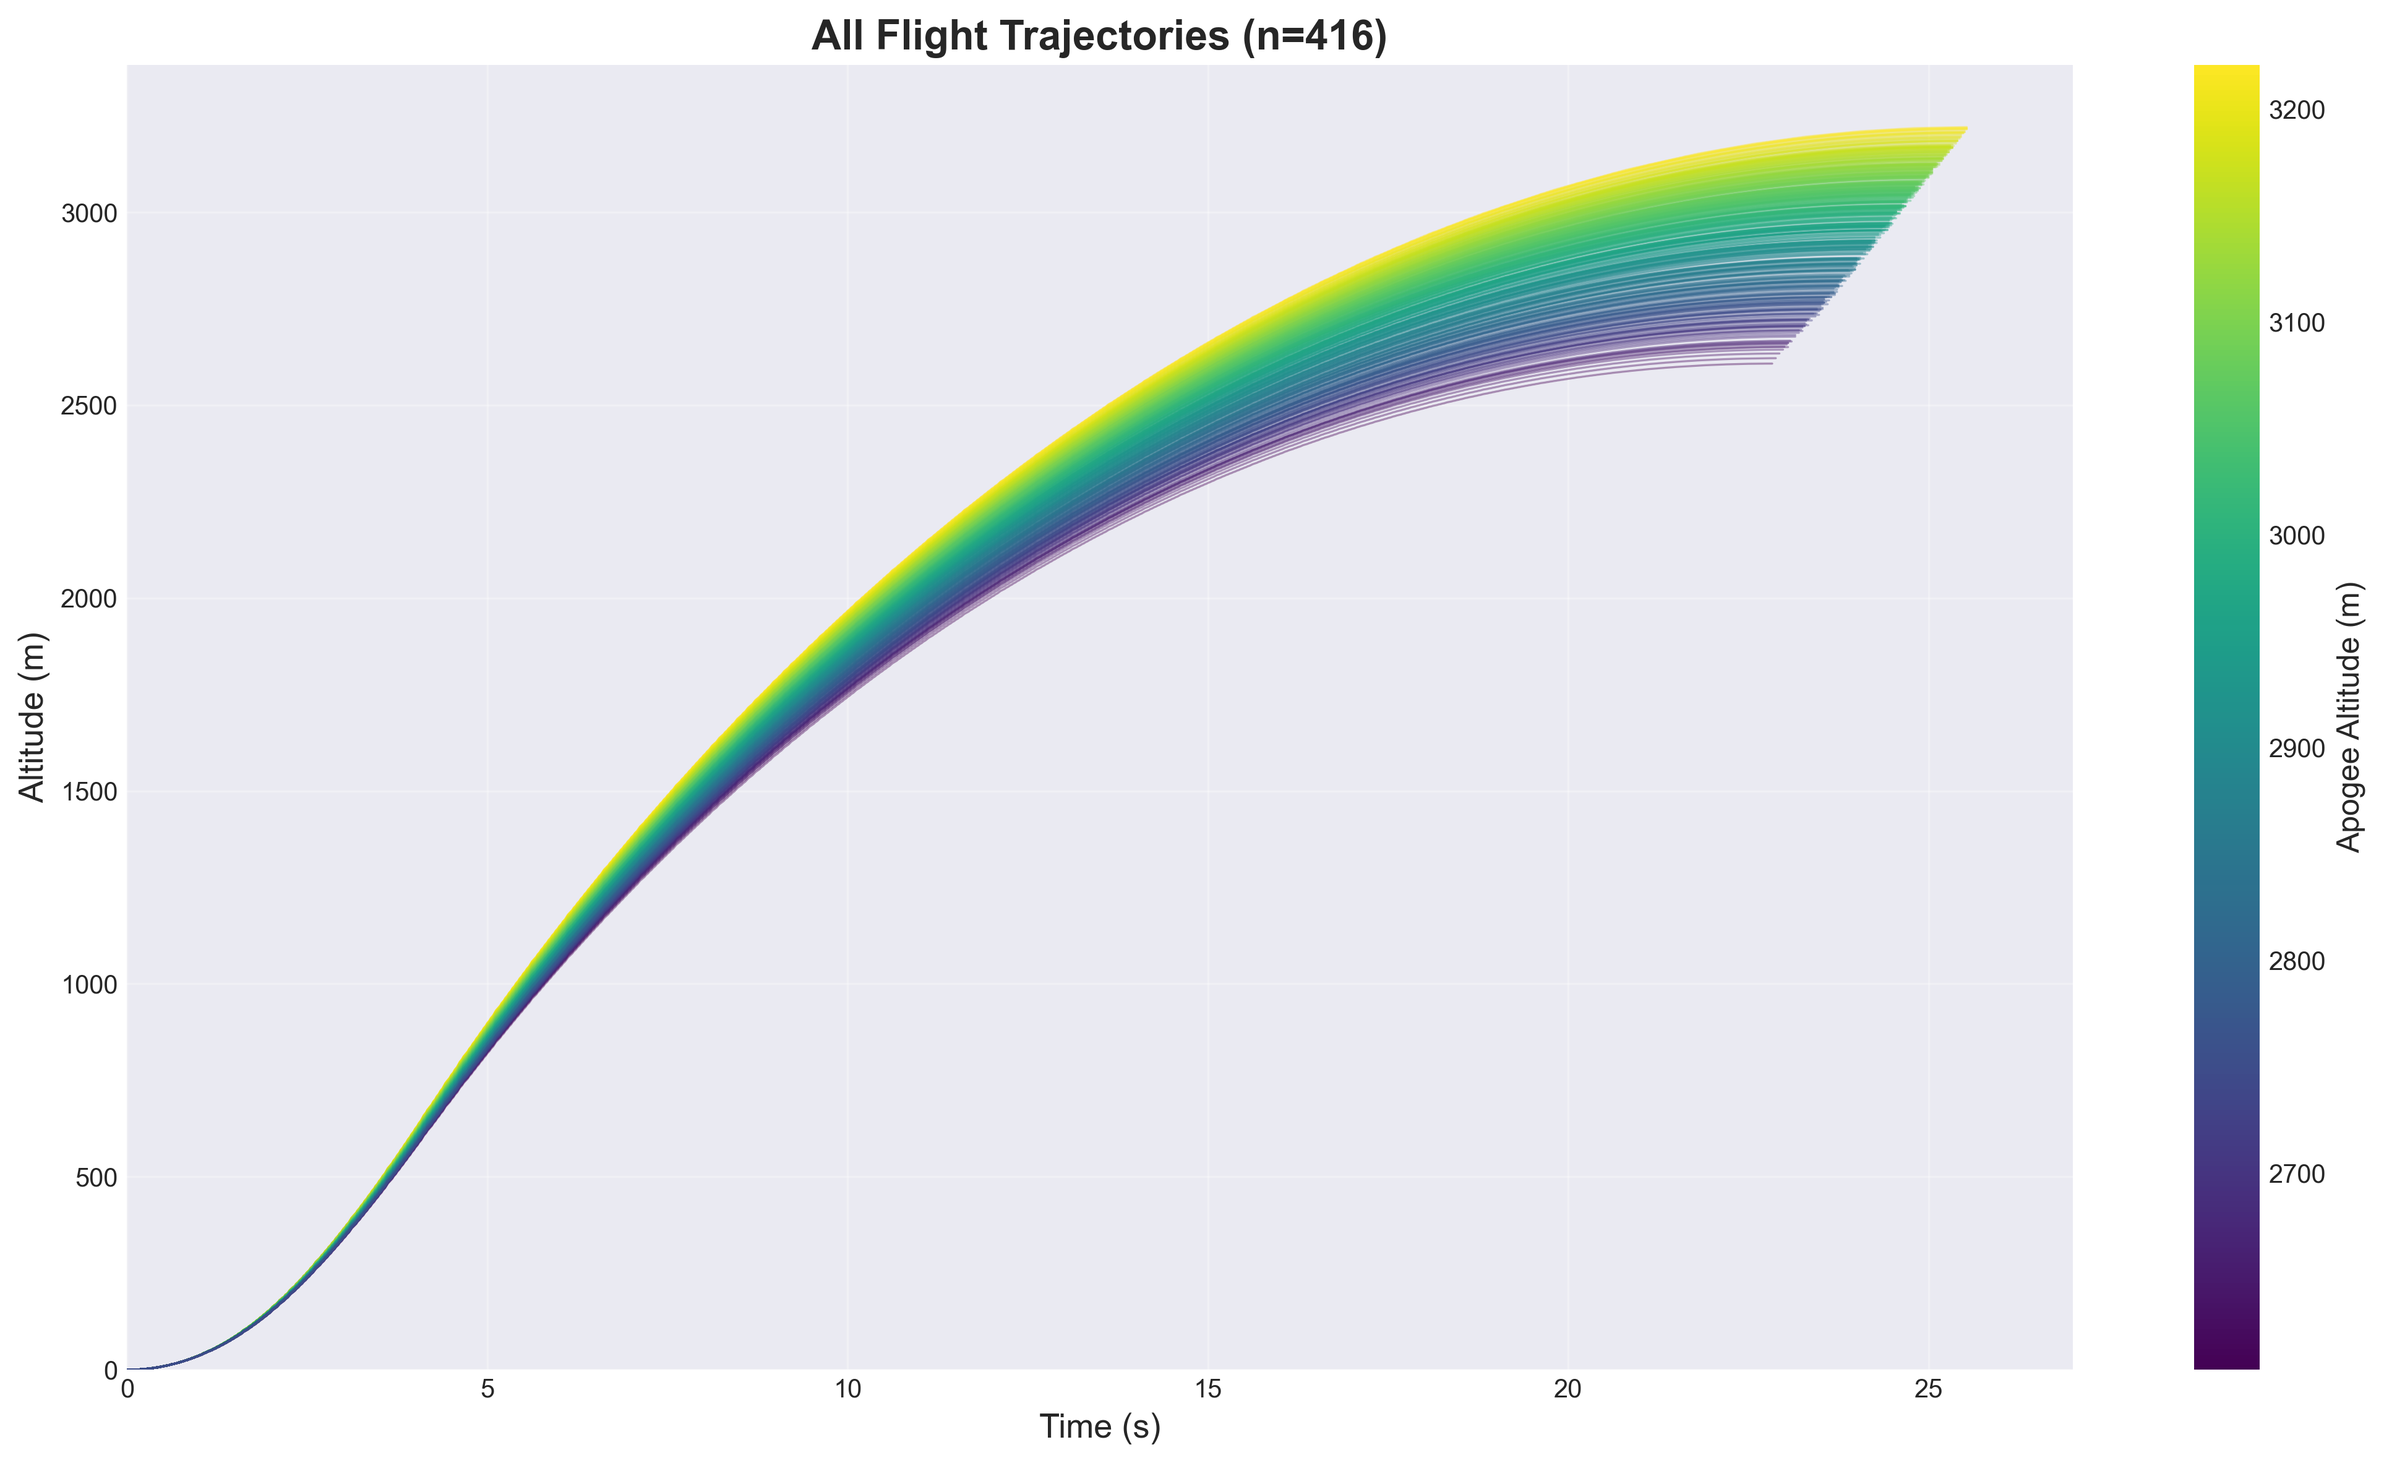
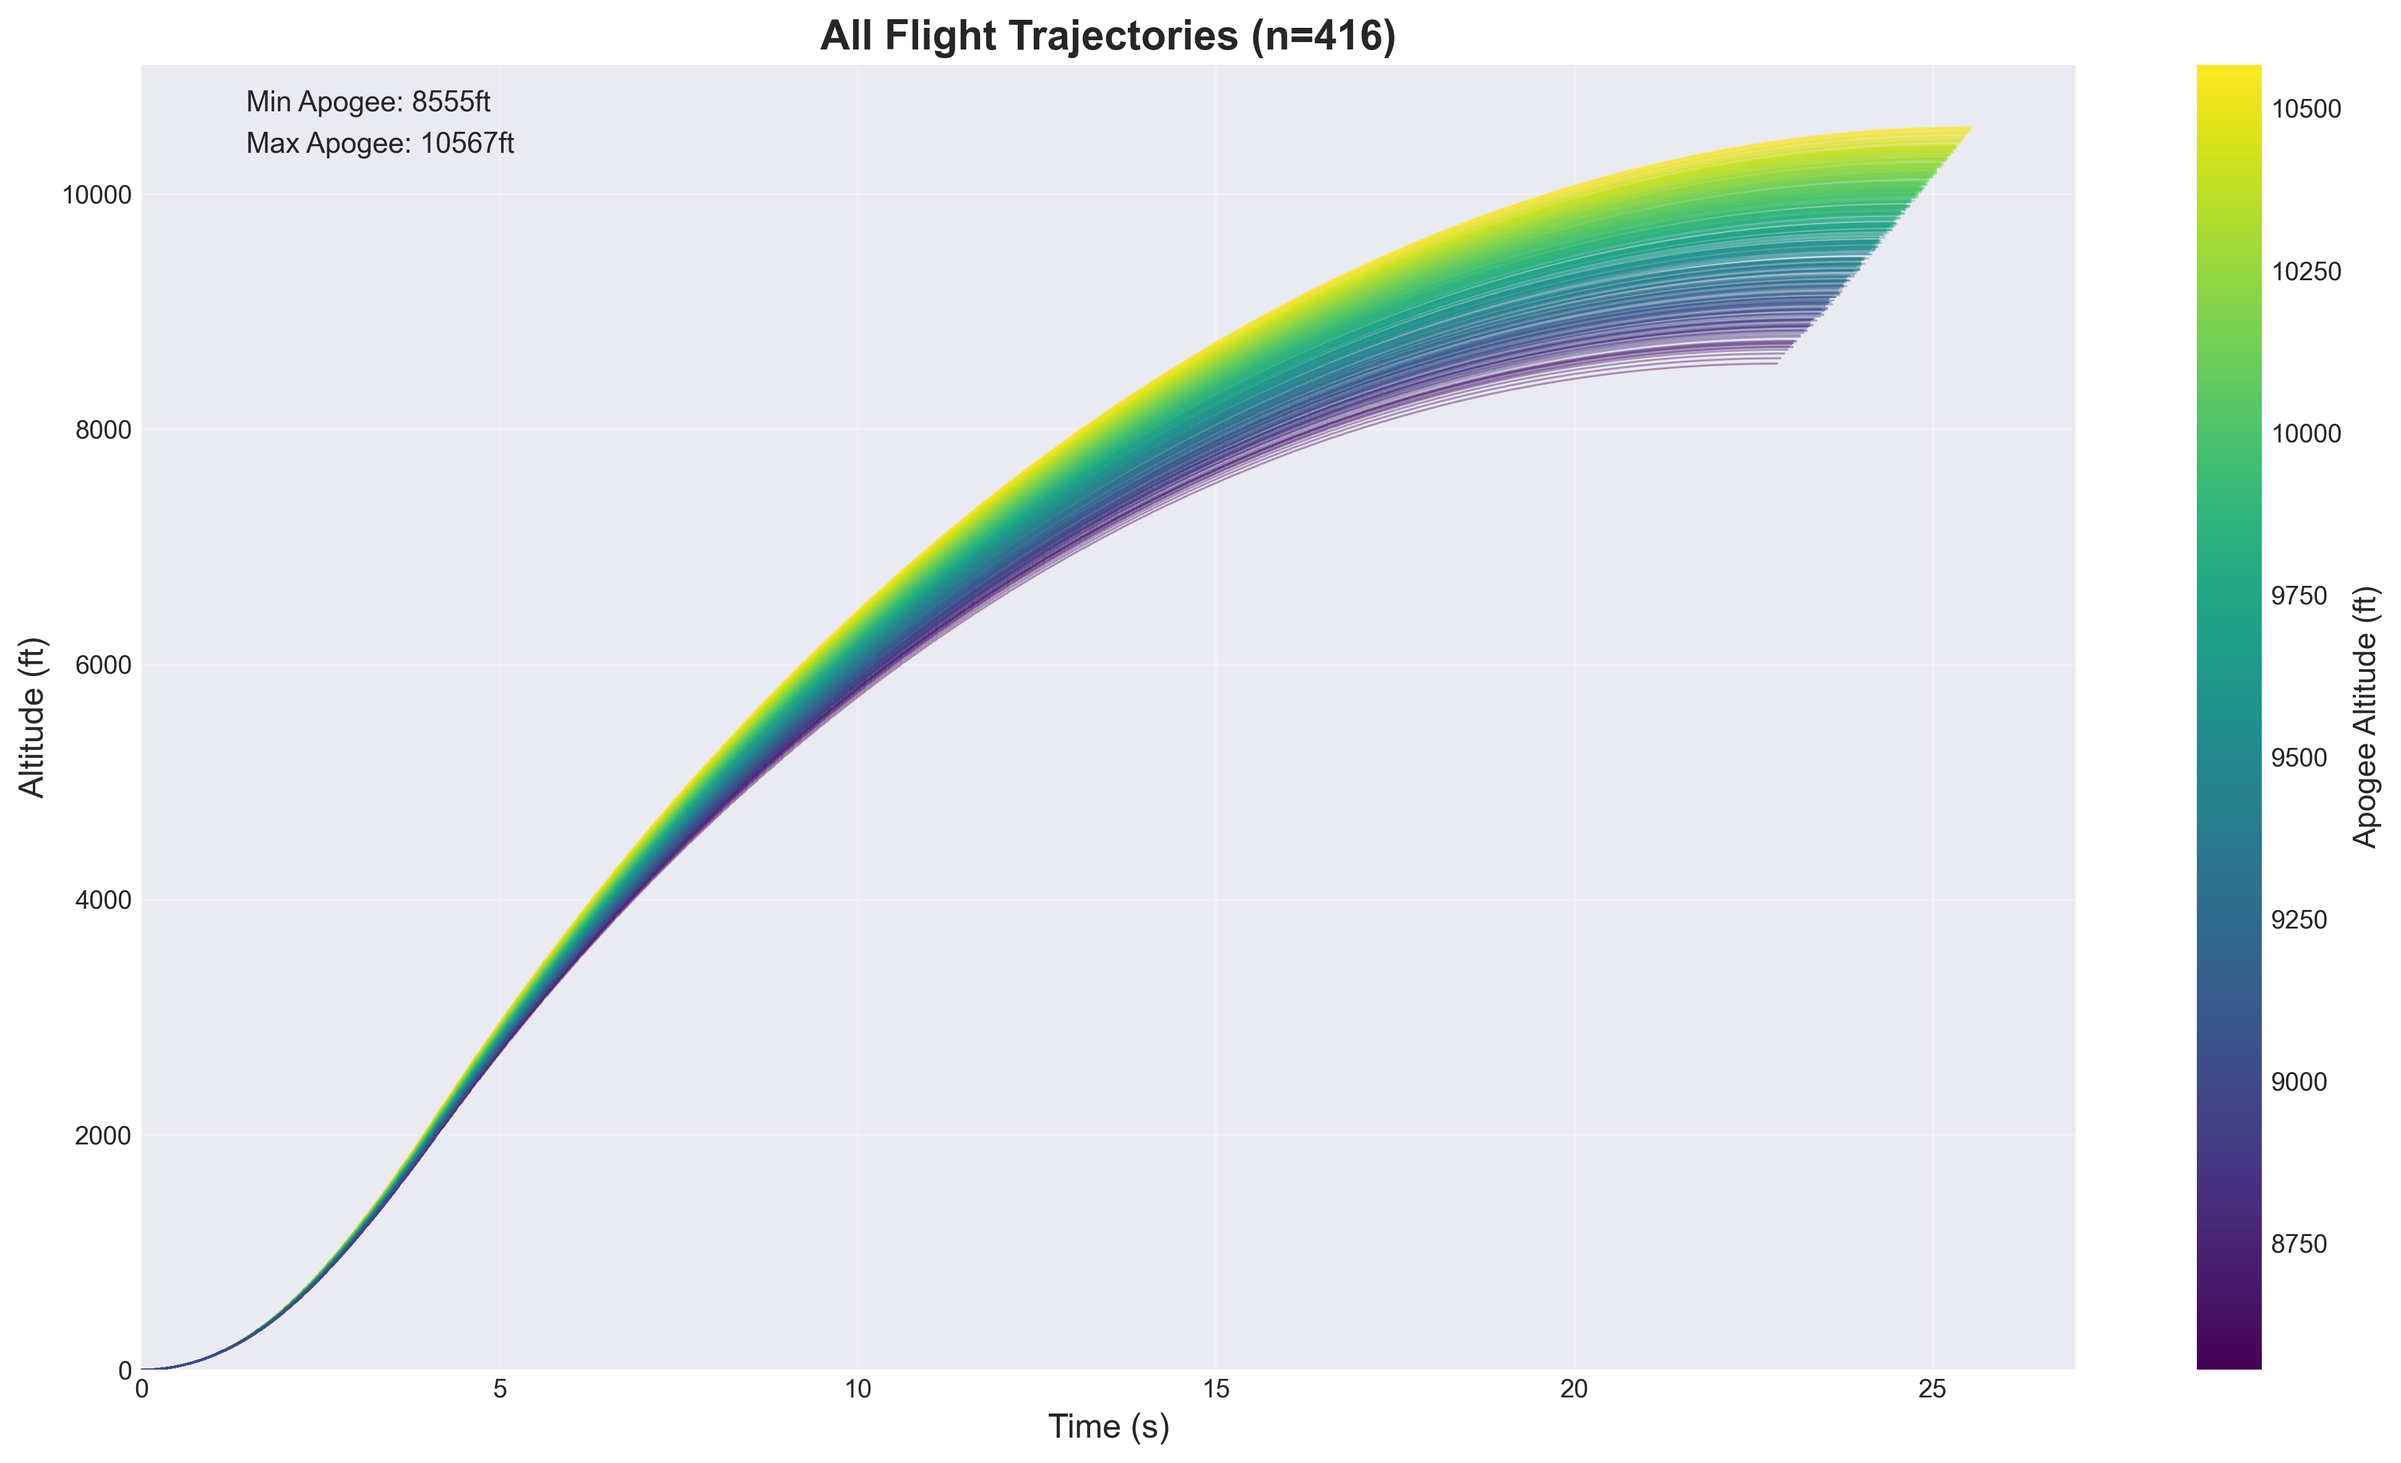
added legends and switched to imperial

diff --git a/scripts/visualization_suite.py b/scripts/visualization_suite.py
@@ -41,7 +41,13 @@ OUTPUT_DIR.mkdir(exist_ok=True)
 TIMESTEP_INTERVAL = 0.025
 WINDOW_SEC = 2.5
 STRIDE_SEC = 0.25
+TIMESTEP_INTERVAL = 0.025
+WINDOW_SEC = 2.5
+STRIDE_SEC = 0.25
 TOTAL_TIME_SEC = 25.0
+
+# === Unit Conversion ===
+M_TO_FT = 3.28084
 
 WINDOW_SIZE = int(WINDOW_SEC / TIMESTEP_INTERVAL)
 STRIDE = int(STRIDE_SEC / TIMESTEP_INTERVAL)
@@ -157,14 +163,14 @@ def extract_trajectory_columns(df: pd.DataFrame) -> Dict[str, np.ndarray]:
     
     result = {
         'timesteps': timesteps,
-        'altitude': df[[c for c in cols if c.startswith("Altitude (m) @")]].values,
-        'vertical_velocity': df[[c for c in cols if c.startswith("Vertical velocity (m/s) @")]].values,
-        'horizontal_velocity': df[[c for c in cols if c.startswith("Horizontal velocity (m/s) @")]].values,
-        'total_velocity': df[[c for c in cols if c.startswith("Total velocity (m/s) @")]].values,
+        'altitude': df[[c for c in cols if c.startswith("Altitude (m) @")]].values * M_TO_FT,
+        'vertical_velocity': df[[c for c in cols if c.startswith("Vertical velocity (m/s) @")]].values * M_TO_FT,
+        'horizontal_velocity': df[[c for c in cols if c.startswith("Horizontal velocity (m/s) @")]].values * M_TO_FT,
+        'total_velocity': df[[c for c in cols if c.startswith("Total velocity (m/s) @")]].values * M_TO_FT,
         'mach': df[[c for c in cols if c.startswith("Mach number @")]].values,
-        'apogee': df["Apogee altitude (m)"].values,
+        'apogee': df["Apogee altitude (m)"].values * M_TO_FT,
         'apogee_time': df["Apogee time (s)"].values,
-        'wind_speed': df["Wind Speed (m/s)"].values,
+        'wind_speed': df["Wind Speed (m/s)"].values * M_TO_FT,
         'temperature': df["Temperature (K)"].values,
         'launch_angle': df["Launch Angle (deg)"].values,
     }
@@ -187,18 +193,25 @@ def compute_all_model_metrics(models: Dict, X: np.ndarray, y: np.ndarray) -> Dic
     for name in ['MLP', 'Random Forest', 'Linear Regression']:
         y_pred = predict_with_model(models[name], name, X_scaled, target_scaler)
         
-        rmse = np.sqrt(mean_squared_error(y, y_pred))
-        mae = mean_absolute_error(y, y_pred)
+        # Calculate metrics in meters first (standard) then convert for display
+        rmse_m = np.sqrt(mean_squared_error(y, y_pred))
+        mae_m = mean_absolute_error(y, y_pred)
         r2 = r2_score(y, y_pred)
         
+        # Convert to feet
+        rmse_ft = rmse_m * M_TO_FT
+        mae_ft = mae_m * M_TO_FT
+        y_pred_ft = y_pred * M_TO_FT
+        errors_ft = (y_pred - y) * M_TO_FT
+        
         metrics[name] = {
-            'rmse': rmse,
-            'mae': mae,
+            'rmse': rmse_ft,
+            'mae': mae_ft,
             'r2': r2,
-            'predictions': y_pred,
-            'errors': y_pred - y
+            'predictions': y_pred_ft,
+            'errors': errors_ft
         }
-        print(f"  {name}: RMSE={rmse:.2f}m, MAE={mae:.2f}m, R²={r2:.4f}")
+        print(f"  {name}: RMSE={rmse_ft:.2f}ft, MAE={mae_ft:.2f}ft, R²={r2:.4f}")
     
     return metrics
 
@@ -216,21 +229,21 @@ def plot_model_comparison_bar(metrics: Dict):
     
     # RMSE bars
     bars1 = axes[0].bar(model_names, rmse_values, color=colors, edgecolor='black', linewidth=1.2)
-    axes[0].set_ylabel('RMSE (meters)', fontsize=12)
+    axes[0].set_ylabel('RMSE (feet)', fontsize=12)
     axes[0].set_title('Root Mean Square Error by Model', fontsize=14, fontweight='bold')
     axes[0].set_ylim(0, max(rmse_values) * 1.15)
     for bar, val in zip(bars1, rmse_values):
         axes[0].text(bar.get_x() + bar.get_width()/2, bar.get_height() + 1, 
-                    f'{val:.1f}m', ha='center', va='bottom', fontsize=11, fontweight='bold')
+                    f'{val:.1f}ft', ha='center', va='bottom', fontsize=11, fontweight='bold')
     
     # MAE bars
     bars2 = axes[1].bar(model_names, mae_values, color=colors, edgecolor='black', linewidth=1.2)
-    axes[1].set_ylabel('MAE (meters)', fontsize=12)
+    axes[1].set_ylabel('MAE (feet)', fontsize=12)
     axes[1].set_title('Mean Absolute Error by Model', fontsize=14, fontweight='bold')
     axes[1].set_ylim(0, max(mae_values) * 1.15)
     for bar, val in zip(bars2, mae_values):
         axes[1].text(bar.get_x() + bar.get_width()/2, bar.get_height() + 1, 
-                    f'{val:.1f}m', ha='center', va='bottom', fontsize=11, fontweight='bold')
+                    f'{val:.1f}ft', ha='center', va='bottom', fontsize=11, fontweight='bold')
     
     plt.tight_layout()
     save_path = OUTPUT_DIR / "model_comparison_bar.png"
@@ -255,8 +268,8 @@ def plot_pred_vs_actual(metrics: Dict, y_true: np.ndarray):
         lims = [min(y_true.min(), y_pred.min()), max(y_true.max(), y_pred.max())]
         ax.plot(lims, lims, 'k--', linewidth=2, label='Perfect Prediction')
         
-        ax.set_xlabel('Actual Apogee (m)', fontsize=12)
-        ax.set_ylabel('Predicted Apogee (m)', fontsize=12)
+        ax.set_xlabel('Actual Apogee (ft)', fontsize=12)
+        ax.set_ylabel('Predicted Apogee (ft)', fontsize=12)
         ax.set_title(f'{name}\nR² = {data["r2"]:.4f}', fontsize=14, fontweight='bold')
         ax.legend(loc='lower right')
         ax.set_aspect('equal', adjustable='box')
@@ -298,8 +311,11 @@ def plot_error_vs_time(models: Dict, test_df: pd.DataFrame, y_true: np.ndarray):
         for flight_idx in range(num_flights):
             start = flight_idx * SAMPLES_PER_FLIGHT
             end = start + SAMPLES_PER_FLIGHT
-            true_apogee = y_true[start][0]
-            preds_i = y_pred[start:end].flatten()[time_mask]
+            
+            # Convert to feet for error calculation
+            true_apogee = y_true[start][0] * M_TO_FT
+            preds_i = y_pred[start:end].flatten()[time_mask] * M_TO_FT
+            
             abs_errors.append(np.abs(preds_i - true_apogee))
         
         abs_errors = np.vstack(abs_errors)
@@ -314,7 +330,7 @@ def plot_error_vs_time(models: Dict, test_df: pd.DataFrame, y_true: np.ndarray):
                         color=color, alpha=0.15)
     
     ax.set_xlabel('Time into Flight (s)', fontsize=13)
-    ax.set_ylabel('Mean Absolute Error (m)', fontsize=13)
+    ax.set_ylabel('Mean Absolute Error (ft)', fontsize=13)
     ax.set_title('Prediction Error vs Flight Time - Model Comparison', fontsize=16, fontweight='bold')
     ax.legend(fontsize=12, loc='upper right')
     ax.grid(True, alpha=0.3)
@@ -356,7 +372,7 @@ def plot_error_distributions(metrics: Dict):
     ax.axhline(0, color='black', linestyle='--', linewidth=1, alpha=0.7)
     ax.set_xticks([1, 2, 3])
     ax.set_xticklabels(labels, fontsize=12)
-    ax.set_ylabel('Prediction Error (m)', fontsize=13)
+    ax.set_ylabel('Prediction Error (ft)', fontsize=13)
     ax.set_title('Error Distribution by Model', fontsize=16, fontweight='bold')
     ax.grid(True, alpha=0.3, axis='y')
     
@@ -431,11 +447,21 @@ def plot_2d_all_flights(traj_data: Dict):
     # Add colorbar
     sm = plt.cm.ScalarMappable(cmap=cmap, norm=norm)
     sm.set_array([])
+    # Add colorbar
+    sm = plt.cm.ScalarMappable(cmap=cmap, norm=norm)
+    sm.set_array([])
     cbar = plt.colorbar(sm, ax=ax)
-    cbar.set_label('Apogee Altitude (m)', fontsize=12)
+    cbar.set_label('Apogee Altitude (ft)', fontsize=12)
+    
+    # Add legend with min/max altitude
+    min_apogee = apogees.min()
+    max_apogee = apogees.max()
+    ax.plot([], [], ' ', label=f'Min Apogee: {min_apogee:.0f}ft')
+    ax.plot([], [], ' ', label=f'Max Apogee: {max_apogee:.0f}ft')
+    ax.legend(loc='upper left', fontsize=11, framealpha=0.9)
     
     ax.set_xlabel('Time (s)', fontsize=13)
-    ax.set_ylabel('Altitude (m)', fontsize=13)
+    ax.set_ylabel('Altitude (ft)', fontsize=13)
     ax.set_title(f'All Flight Trajectories (n={num_flights})', fontsize=16, fontweight='bold')
     ax.grid(True, alpha=0.3)
     ax.set_xlim(0, 27)
@@ -475,12 +501,17 @@ def plot_2d_average_flight(traj_data: Dict):
     # Mark mean apogee
     apogee_idx = np.argmax(mean_alt)
     ax.scatter([timesteps[apogee_idx]], [mean_alt[apogee_idx]], 
-               s=150, c='red', zorder=5, marker='*', label=f'Mean Apogee: {mean_alt[apogee_idx]:.0f}m')
+               s=150, c='red', zorder=5, marker='*', label=f'Mean Apogee: {mean_alt[apogee_idx]:.0f}ft')
+    
+    # Add min/max altitude to legend
+    apogees = traj_data['apogee']
+    ax.plot([], [], ' ', label=f'Min Apogee: {apogees.min():.0f}ft')
+    ax.plot([], [], ' ', label=f'Max Apogee: {apogees.max():.0f}ft')
     
     ax.set_xlabel('Time (s)', fontsize=13)
-    ax.set_ylabel('Altitude (m)', fontsize=13)
+    ax.set_ylabel('Altitude (ft)', fontsize=13)
     ax.set_title('Average Flight Trajectory with Confidence Bands', fontsize=16, fontweight='bold')
-    ax.legend(loc='upper right', fontsize=11)
+    ax.legend(loc='upper left', fontsize=11)
     ax.grid(True, alpha=0.3)
     ax.set_xlim(0, 27)
     ax.set_ylim(0, None)
@@ -549,16 +580,24 @@ def plot_3d_all_flights(traj_data: Dict):
         color = cmap(norm(apogees[i]))
         ax.plot(X[i, mask], Y[i, mask], Z[i, mask], alpha=0.5, linewidth=0.8, color=color)
     
-    ax.set_xlabel('X Distance (m)', fontsize=11)
-    ax.set_ylabel('Y Distance (m)', fontsize=11)
-    ax.set_zlabel('Altitude (m)', fontsize=11)
     ax.set_title(f'3D Flight Trajectories (n={num_flights})', fontsize=16, fontweight='bold')
     
     # Add colorbar
     sm = plt.cm.ScalarMappable(cmap=cmap, norm=norm)
     sm.set_array([])
     cbar = plt.colorbar(sm, ax=ax, shrink=0.6, pad=0.1)
-    cbar.set_label('Apogee Altitude (m)', fontsize=11)
+    cbar.set_label('Apogee Altitude (ft)', fontsize=11)
+    
+    # Add legend with min/max altitude
+    min_apogee = apogees.min()
+    max_apogee = apogees.max()
+    ax.plot([], [], [], ' ', label=f'Min Apogee: {min_apogee:.0f}ft')
+    ax.plot([], [], [], ' ', label=f'Max Apogee: {max_apogee:.0f}ft')
+    ax.legend(loc='upper left', fontsize=10, framealpha=0.9)
+    
+    ax.set_xlabel('X Distance (ft)', fontsize=11)
+    ax.set_ylabel('Y Distance (ft)', fontsize=11)
+    ax.set_zlabel('Altitude (ft)', fontsize=11)
     
     ax.view_init(elev=25, azim=45)
     
@@ -610,11 +649,16 @@ def plot_3d_average_flight(traj_data: Dict):
     apogee_idx = np.argmax(mean_Z)
     ax.scatter([mean_X[apogee_idx]], [mean_Y[apogee_idx]], [mean_Z[apogee_idx]], 
                s=200, c='gold', marker='*', edgecolors='black', linewidth=1,
-               label=f'Mean Apogee: {mean_Z[apogee_idx]:.0f}m', zorder=10)
+               label=f'Mean Apogee: {mean_Z[apogee_idx]:.0f}ft', zorder=10)
     
-    ax.set_xlabel('X Distance (m)', fontsize=11)
-    ax.set_ylabel('Y Distance (m)', fontsize=11)
-    ax.set_zlabel('Altitude (m)', fontsize=11)
+    # Add min/max altitude to legend
+    apogees = traj_data['apogee']
+    ax.plot([], [], [], ' ', label=f'Min Apogee: {apogees.min():.0f}ft')
+    ax.plot([], [], [], ' ', label=f'Max Apogee: {apogees.max():.0f}ft')
+    
+    ax.set_xlabel('X Distance (ft)', fontsize=11)
+    ax.set_ylabel('Y Distance (ft)', fontsize=11)
+    ax.set_zlabel('Altitude (ft)', fontsize=11)
     ax.set_title('Average 3D Flight Trajectory', fontsize=16, fontweight='bold')
     ax.legend(loc='upper left', fontsize=11)
     
@@ -641,11 +685,11 @@ def plot_apogee_distribution(traj_data: Dict):
     
     ax.hist(apogees, bins=30, color='#9b59b6', edgecolor='black', alpha=0.7)
     ax.axvline(np.mean(apogees), color='red', linestyle='--', linewidth=2, 
-               label=f'Mean: {np.mean(apogees):.0f}m')
+               label=f'Mean: {np.mean(apogees):.0f}ft')
     ax.axvline(np.median(apogees), color='orange', linestyle='--', linewidth=2, 
-               label=f'Median: {np.median(apogees):.0f}m')
+               label=f'Median: {np.median(apogees):.0f}ft')
     
-    ax.set_xlabel('Apogee Altitude (m)', fontsize=13)
+    ax.set_xlabel('Apogee Altitude (ft)', fontsize=13)
     ax.set_ylabel('Number of Flights', fontsize=13)
     ax.set_title('Distribution of Apogee Altitudes', fontsize=16, fontweight='bold')
     ax.legend(fontsize=12)
@@ -674,7 +718,7 @@ def plot_velocity_profiles(traj_data: Dict):
     axes[0].fill_between(timesteps, mean_v - std_v, mean_v + std_v, color='#27ae60', alpha=0.2)
     axes[0].axhline(0, color='black', linestyle='--', linewidth=1)
     axes[0].set_xlabel('Time (s)', fontsize=12)
-    axes[0].set_ylabel('Velocity (m/s)', fontsize=12)
+    axes[0].set_ylabel('Velocity (ft/s)', fontsize=12)
     axes[0].set_title('Vertical Velocity', fontsize=14, fontweight='bold')
     axes[0].grid(True, alpha=0.3)
     
@@ -686,7 +730,7 @@ def plot_velocity_profiles(traj_data: Dict):
     axes[1].fill_between(timesteps, np.maximum(0, mean_h - std_h), mean_h + std_h, 
                          color='#e67e22', alpha=0.2)
     axes[1].set_xlabel('Time (s)', fontsize=12)
-    axes[1].set_ylabel('Velocity (m/s)', fontsize=12)
+    axes[1].set_ylabel('Velocity (ft/s)', fontsize=12)
     axes[1].set_title('Horizontal Velocity', fontsize=14, fontweight='bold')
     axes[1].grid(True, alpha=0.3)
     
@@ -698,7 +742,7 @@ def plot_velocity_profiles(traj_data: Dict):
     axes[2].fill_between(timesteps, np.maximum(0, mean_t - std_t), mean_t + std_t, 
                          color='#8e44ad', alpha=0.2)
     axes[2].set_xlabel('Time (s)', fontsize=12)
-    axes[2].set_ylabel('Velocity (m/s)', fontsize=12)
+    axes[2].set_ylabel('Velocity (ft/s)', fontsize=12)
     axes[2].set_title('Total Velocity', fontsize=14, fontweight='bold')
     axes[2].grid(True, alpha=0.3)
     
